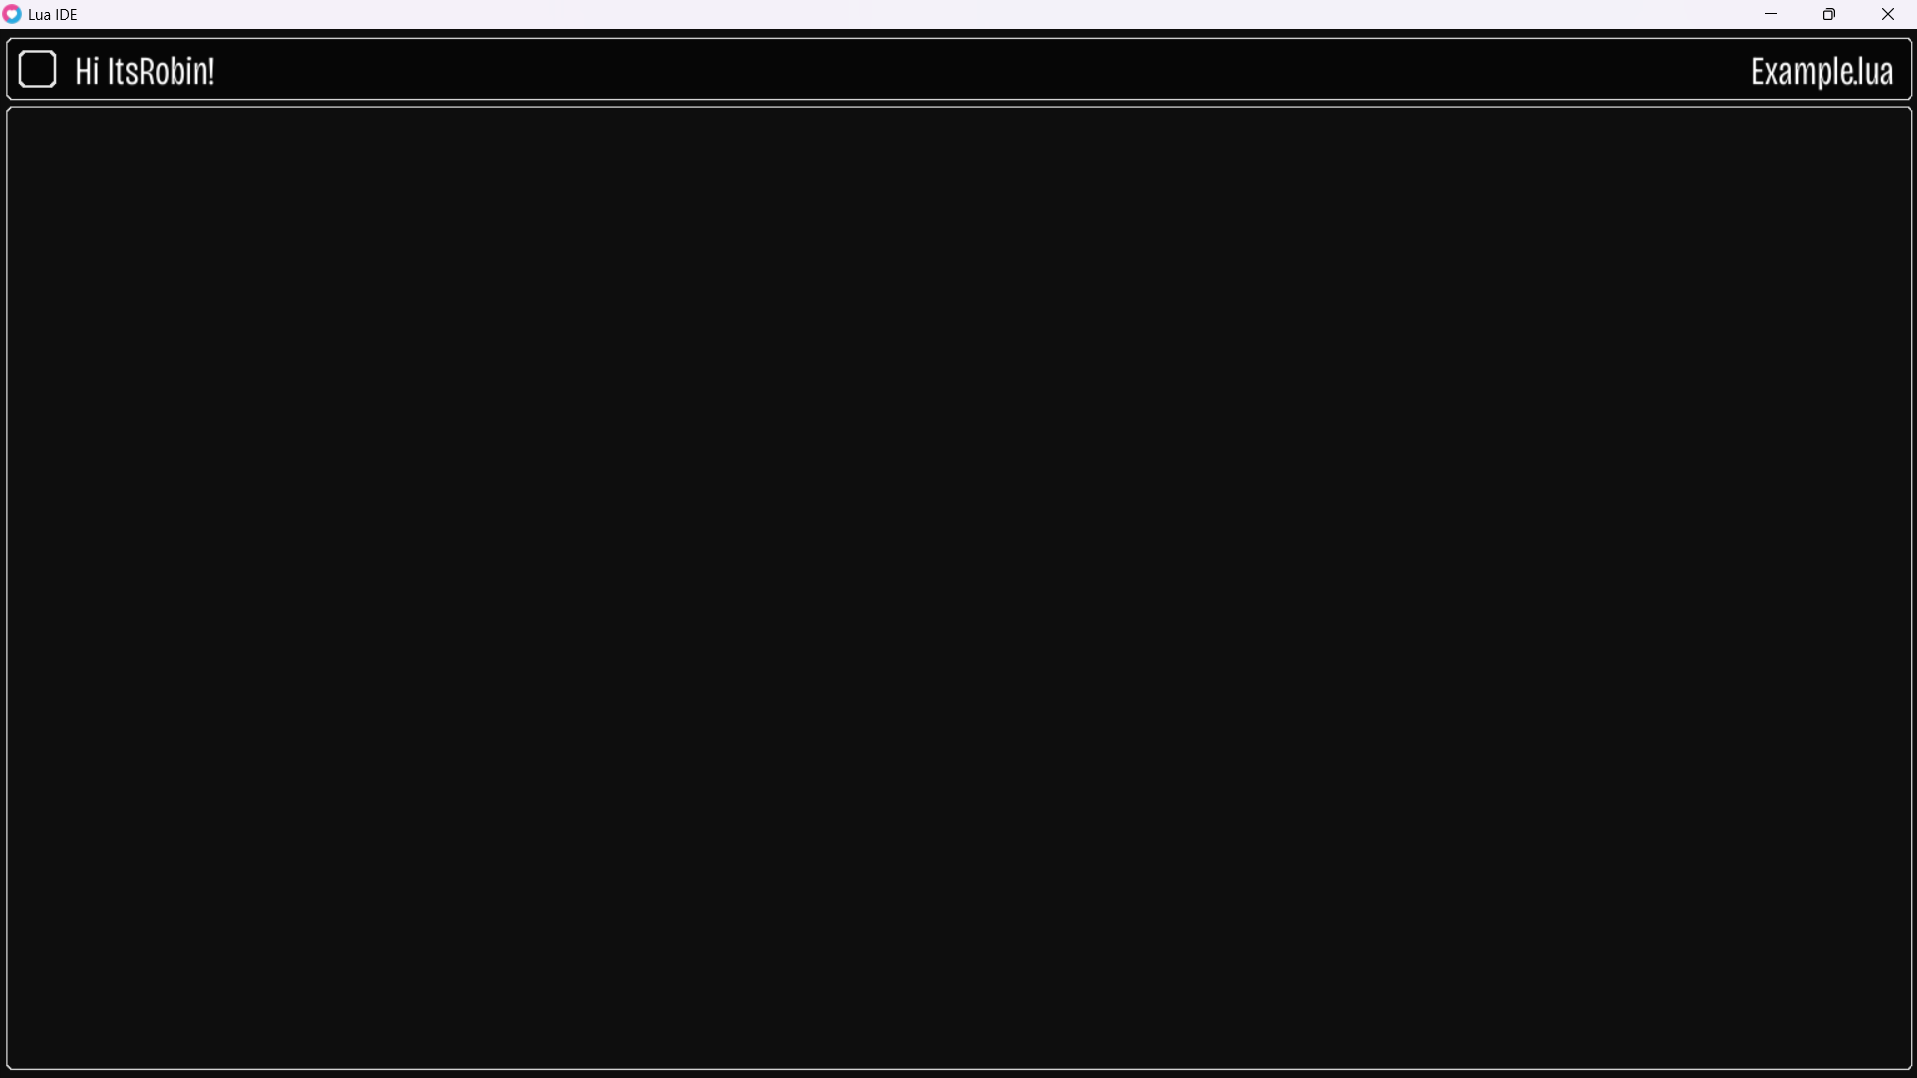
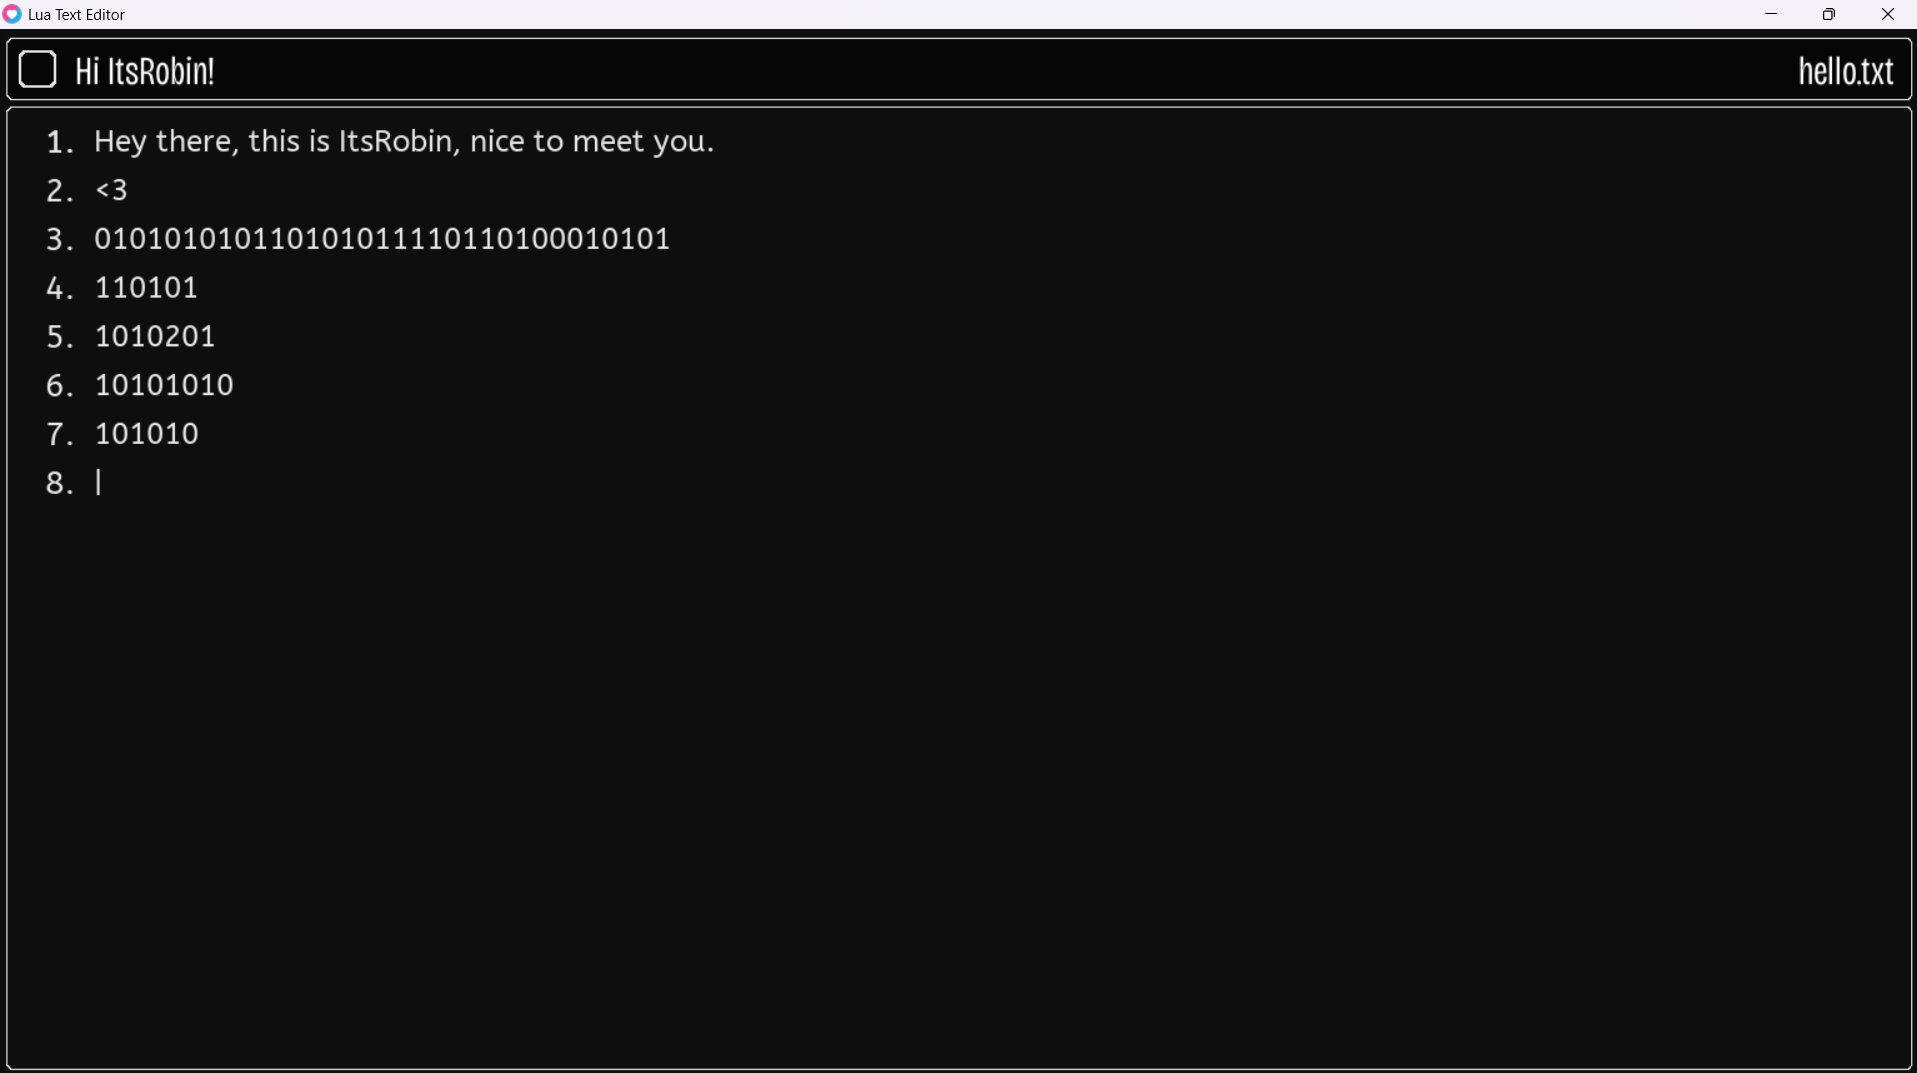
Improve Editor

diff --git a/README.md b/README.md
@@ -2,33 +2,28 @@
 
 Building a small text editor using Lua and the LÖVE2D framework.  
 
-### About   
+## About   
 
-This is a personal learning project focused on exploring Lua and the LÖVE2D framework by building a text editor from scratch. The goal is to develop a basic editor and gradually improve its features, interface, and usability.
+This is a personal learning project focused on exploring Lua and the LÖVE2D framework by building a simple text editor from scratch. The goal is to develop a basic editor and gradually improve its features, interface, and usability.
 
 ### Current Build Includes  
 The current build of the editor includes:  
 - Login Screen  
-- Editor Layout  
+- Basic Editor 
 - Main Menu  
+- Exit Screen
   
-### Screenshots
+## Screenshots
 
-Here are some screenshots of the initial prototype.  
+![Image1](Images/img.png)
 
-1. Login Screen   
-![Image1](Images/img.png)   
+![Image2](Images/img1.png)
 
-2. Editor Layout   
-![Image2](Images/img1.png)  
-
-3. Main Menu  
 ![Image3](Images/img2.png)  
 
-4. Extra
 ![Image4](Images/img3.png)
 
-### Requirement
+## Requirement
 To run this project you need:
 - Love2D Version 11.4
 - Lua Version 5.4 or above.
@@ -40,9 +35,12 @@ To run this project you need:
   Drag the project folder onto `love.exe`
   In terminal navigate to the project directory and run: `love .` and pass the project folder path as an argument to the `love` executable.
 
-### Future Improvements
+## Future Improvements
 - Implement text editing functionality 
 - Add file opening and saving.
-- Editor Interface Improvements
 - Make all buttons functional.
+- Remove Bugs.
+
+### [ Status ]
+- The project is currently in the development phase
 
